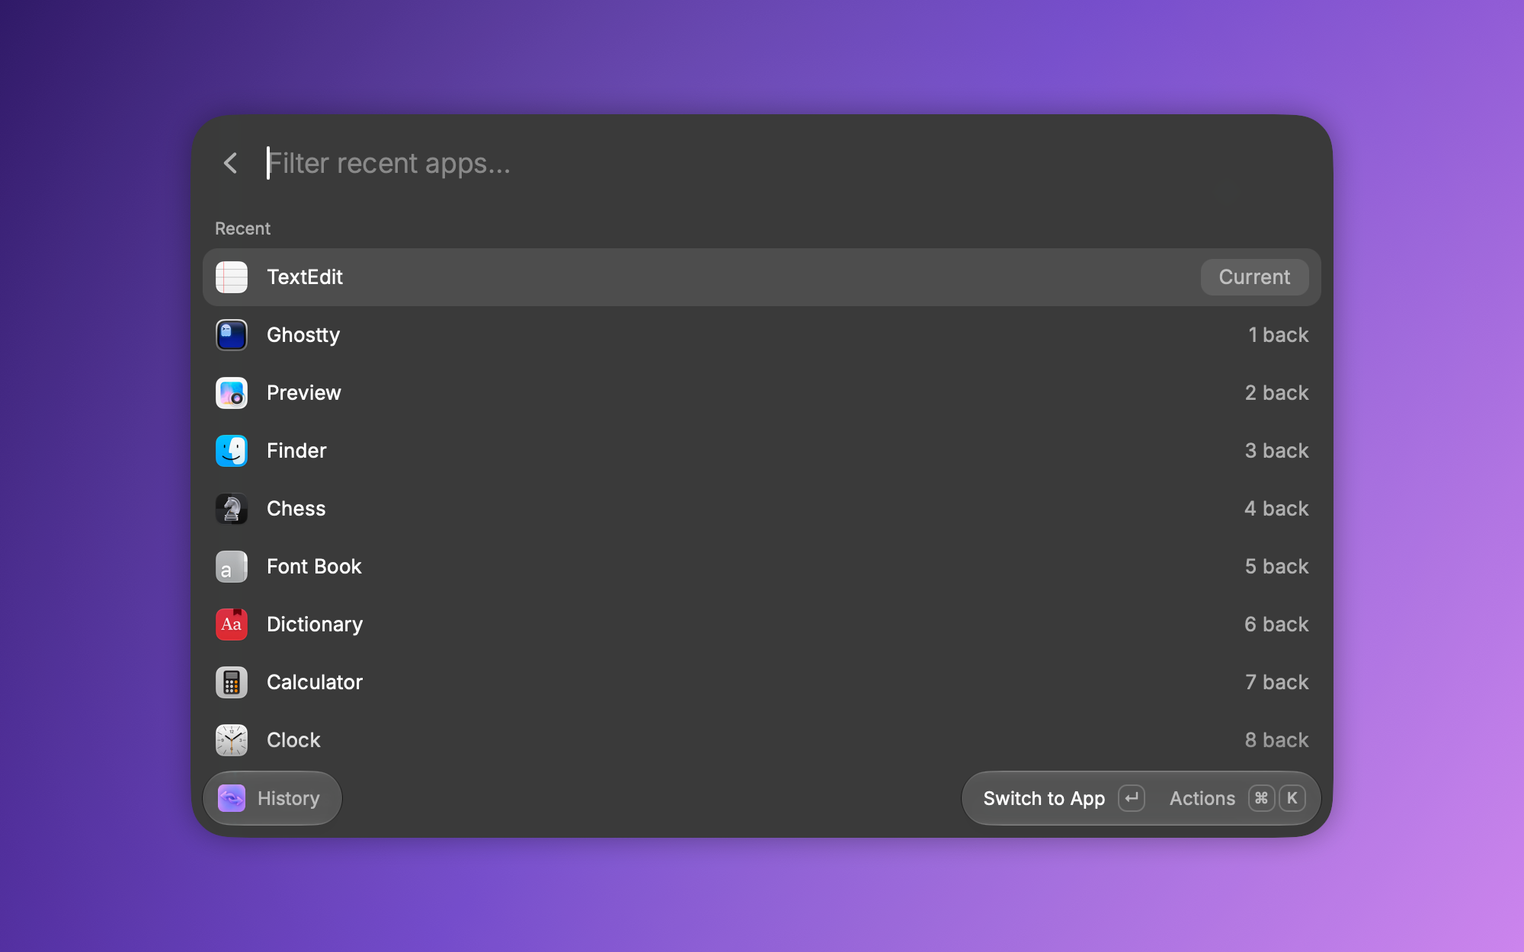
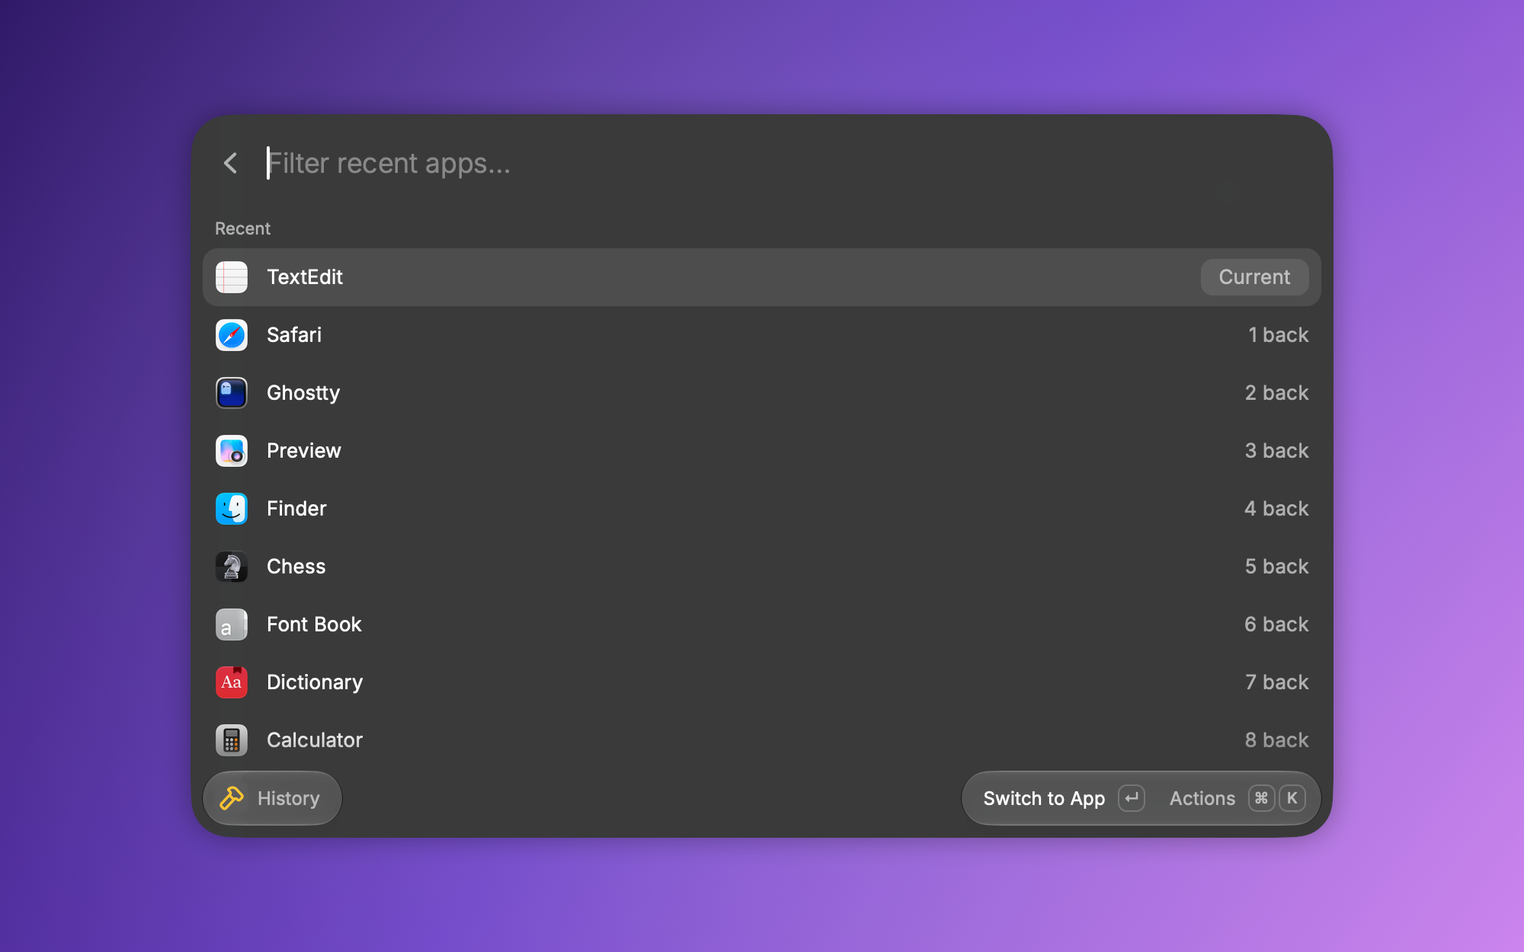
Store media for Tabs; tagline "Jump to any app, tab, or session"
- Screenshots: new jumper-5.png shows Tabs; 1-4 retaken (root search now lists all six commands).
- Demo GIF: adds a Tabs jump (pasted filter lands on a staged Safari tab) and the new tagline on the title card.
- store_media.py: staged Safari window with public pages, Tabs cache warm-up, pasted query (typed prefixes flash private tabs), landing check, wait for History to open, 12 fps.
- Branding: new tagline in package.json description and both READMEs; keywords swap "jump" for "harpoon" and "last used app" for "switch tabs".
- Skills and STATUS updated with the Tabs step and its pitfalls.

Closes #11 (media part).

Changed region(s): [[0.124, 0.3432, 0.248, 0.8736]]

diff --git a/scripts/media/store_media.py b/scripts/media/store_media.py
@@ -40,7 +40,17 @@ DEMO_APPS = [
     ("Finder", None, True),  # opens a window on /System/Applications (Apple apps only), see setup_apps
     ("Preview", ["open", "-a", "Preview", str(EXT / "assets/extension-icon.png")], True),
     ("Ghostty", None, True),  # the owner's own session: used only if already running, never quit
+    ("Safari", None, True),  # a new window with SAFARI_TABS; the owner's own windows are left alone
     ("TextEdit", None, True),  # opens a scratch note, see setup_apps
+]
+
+# Public pages for the staged Safari window: the Tabs command's shots and GIF show these, with the owner's own
+# apps' tabs pushed below the visible rows (Tabs lists apps most recent first). The first one is current.
+SAFARI_TABS = [
+    "https://www.raycast.com/store",
+    "https://www.apple.com/os/macos/",
+    "https://github.com/mattherwig/jumper",
+    "https://developers.raycast.com/",
 ]
 
 # Apps whose process name differs from the app name.
@@ -53,6 +63,7 @@ HOTKEYS = {
     "forward": ["⇧", "⌘", "]"],
     "toggle": ["⌘", "⌘"],  # double-tap ⌘
     "history": ["⇧", "⌘"],
+    "tabs": ["⌃", "⌘"],
 }
 
 NOTE = "Launch checklist\n\n- Screenshots\n- Demo GIF\n- Submit to the Raycast Store\n"
@@ -80,6 +91,15 @@ def close_raycast() -> None:
             return
         escape()
     raise RuntimeError("Raycast window did not close")
+
+
+def paste(text: str) -> None:
+    """Pastes `text` into the focused field in one go, then puts the owner's clipboard text back."""
+    saved = subprocess.run(["pbpaste"], capture_output=True).stdout
+    subprocess.run(["pbcopy"], input=text.encode(), check=True)
+    keys('keystroke "v" using command down')
+    time.sleep(0.3)
+    subprocess.run(["pbcopy"], input=saved, check=True)
 
 
 def deeplink(command: str) -> None:
@@ -122,6 +142,7 @@ class DemoApps:
         self.frame = frame
         self.launched: list[str] = []
         self.finder_window: str | None = None
+        self.safari_window: str | None = None
         self.note = TMP / "Jumper.txt"
         self.previous_app = frontmost()
         self.restore: list[tuple[str, str]] = []  # (process, "x, y, w, h") of windows we moved but don't own
@@ -140,6 +161,18 @@ class DemoApps:
                     self.launched.append(name)
                 if name == "TextEdit":
                     subprocess.run(["open", "-a", "TextEdit", str(self.note)], check=True)
+                elif name == "Safari":
+                    self.safari_window = osa(
+                        'tell application "Safari"\n'
+                        f'  make new document with properties {{URL:"{SAFARI_TABS[0]}"}}\n'
+                        "  set w to front window\n"
+                        + "".join(f'  tell w to make new tab at end of tabs with properties {{URL:"{u}"}}\n' for u in SAFARI_TABS[1:])
+                        + "  set current tab of w to tab 1 of w\n"
+                        "  activate\n"
+                        "  return id of w\n"
+                        "end tell"
+                    )
+                    time.sleep(3)  # let the pages load, so titles and favicons are real
                 elif name == "Finder":
                     self.finder_window = osa(
                         'tell application "Finder"\n'
@@ -181,6 +214,8 @@ class DemoApps:
                 f"  set size of window 1 to {{{w}, {h}}}\n"
                 "end tell"
             )
+        if self.safari_window:
+            subprocess.run(["osascript", "-e", f'tell application "Safari" to close (window id {self.safari_window})'])
         if self.finder_window:
             subprocess.run(["osascript", "-e", f'tell application "Finder" to close (window id {self.finder_window})'])
         subprocess.run(
@@ -231,7 +266,15 @@ def screenshots() -> None:
         time.sleep(1.5)
         close_raycast()
 
-    # 4. Root search for "jumper": every command, Back selected to show its hotkey. Raycast ignores a synthetic
+        # 5. Tabs, from the staged Safari window: its tabs on top, then the other demo apps' windows.
+        subprocess.run(["open", "-a", "Safari"], check=True)
+        time.sleep(1)
+        deeplink("tabs")
+        time.sleep(3.5)  # the list first shows the cached copy, then refreshes
+        capture(out / "jumper-5.png")
+        close_raycast()
+
+    # 4. Root search for "jumper": every command, the second row selected to show its hotkey (Raycast ranks by use). Raycast ignores a synthetic
     # ⌘Space, but Escape from a command's view pops to root search. Matching files from the
     # user's disk show below the commands; review them before committing.
     deeplink("history")
@@ -242,7 +285,7 @@ def screenshots() -> None:
         raise RuntimeError("root search did not open")
     keys('keystroke "jumper"')
     time.sleep(1.5)
-    keys("key code 125")  # select Back: Raycast shows the hotkey of the selected row only
+    keys("key code 125")  # Raycast shows the hotkey of the selected row only
     time.sleep(0.6)
     capture(out / "jumper-4.png")
     close_raycast()
@@ -255,14 +298,25 @@ def gif() -> None:
     # Recording area: Raycast's window plus a margin; every demo window is placed exactly on it,
     # so whatever is behind (the user's own windows) never shows.
     deeplink("history")
-    time.sleep(1.5)
+    deadline = time.time() + 6
+    while (window := raycast_window()) is None and time.time() < deadline:
+        time.sleep(0.3)
+    if window is None:
+        sys.exit("History did not open: is `ray develop` running?")
+    time.sleep(0.5)  # let it settle at its final size
     _, rx, ry, rw, rh = raycast_window()  # type: ignore[misc]
     close_raycast()
     frame = (rx - 120, max(ry - 50, 40), rw + 240, rh + 170)
     x, y, w, h = frame
     video = TMP / "demo.mov"
-    back, fwd, tog, hist = (HOTKEYS[c] for c in ("back", "forward", "toggle", "history"))
-    card = {"card": "Jumper", "sub": "Back and Forward for your Mac apps"}
+    back, fwd, tog, hist, tabs = (HOTKEYS[c] for c in ("back", "forward", "toggle", "history", "tabs"))
+    # Tabs step: types a filter that matches only the staged apple.com tab ("macOS 27 Golden Gate"). Raycast ranks
+    # matches across all apps, so the query must not match any of the owner's tabs or sessions (a jump there lands
+    # outside the recording area). Arrow keys aren't reliable either: Tabs opens on its cached list and the
+    # selection after the refresh varies. The query is pasted, not typed: every prefix ("g", "go") would briefly
+    # list matching private tabs. Checked after recording.
+    tab_target = SAFARI_TABS[1]
+    card = {"card": "Jumper", "sub": "Jump to any app, tab, or session"}
     # (overlay message, deeplink command or keystroke or None, seconds to hold)
     timeline = [
         (card, None, 2.8),
@@ -280,10 +334,13 @@ def gif() -> None:
         ({"keys": ["↓"], "title": "History", "detail": "pick any app"}, "key code 125", 0.5),
         ({"keys": ["↓"], "title": "History", "detail": "pick any app"}, "key code 125", 0.9),
         ({"keys": ["↩"], "title": "Switch to App", "detail": "jump straight there"}, "key code 36", 1.8),
+        ({"keys": tabs, "title": "Tabs", "detail": "every tab, window, and session"}, "tabs", 2.2),
+        ({"keys": ["golden gate"], "title": "Tabs", "detail": "search by title or URL"}, "paste:golden gate", 1.5),
+        ({"keys": ["↩"], "title": "Jump to Tab", "detail": "straight to that tab"}, "key code 36", 2.2),
         ({}, None, 0.4),
         ({"card": "Jumper", "sub": "Free on the Raycast Store"}, None, 2.8),
     ]
-    with DemoApps(frame):
+    with DemoApps(frame) as demo:
         keycast = subprocess.Popen(
             ["swift", str(HERE / "keycast.swift"), *map(str, frame), str(EXT / "assets/extension-icon.png")], stdin=subprocess.PIPE, text=True
         )
@@ -292,6 +349,10 @@ def gif() -> None:
             keycast.stdin.write(json.dumps(message) + "\n")  # type: ignore[union-attr]
             keycast.stdin.flush()  # type: ignore[union-attr]
 
+        # Warm Tabs' cache: it shows the last list first, which would otherwise be from the owner's own use.
+        deeplink("tabs")
+        time.sleep(3)
+        close_raycast()
         # Park the pointer outside the recording area (screencapture -v records it).
         subprocess.run(["swift", "-e", "import CoreGraphics; CGWarpMouseCursorPosition(CGPoint(x: 2, y: 2000))"])
         overlay(card)
@@ -304,7 +365,9 @@ def gif() -> None:
         checked: set[str] = set()
         for message, action, hold in timeline:
             overlay(message)
-            if action and action.startswith("key code"):
+            if action and action.startswith("paste:"):
+                paste(action.removeprefix("paste:"))
+            elif action and action.startswith(("key code", "keystroke")):
                 keys(action)
             elif action:
                 deeplink(action)
@@ -323,13 +386,16 @@ def gif() -> None:
         rec.wait()
         keycast.stdin.close()
         keycast.wait()
+        landed = osa(f'tell application "Safari" to get URL of current tab of window id {demo.safari_window}')
+        if frontmost() != "Safari" or landed.rstrip("/") != tab_target.rstrip("/"):
+            print(f"warning: Tabs jump landed on {frontmost()} {landed}, expected Safari {tab_target}", file=sys.stderr)
 
         out = EXT / "media"
         out.mkdir(exist_ok=True)
         subprocess.run(
             [
                 "ffmpeg", "-y", "-loglevel", "error", "-ss", "1", "-i", str(video),
-                "-vf", "fps=15,scale=960:-1:flags=lanczos,split[a][b];[a]palettegen=stats_mode=diff[p];"
+                "-vf", "fps=12,scale=960:-1:flags=lanczos,split[a][b];[a]palettegen=stats_mode=diff[p];"
                 "[b][p]paletteuse=dither=bayer:bayer_scale=4:diff_mode=rectangle",
                 str(out / "demo.gif"),
             ],

diff --git a/.claude/skills/store-screenshots/SKILL.md b/.claude/skills/store-screenshots/SKILL.md
@@ -1,25 +1,26 @@
 ---
 name: store-screenshots
-description: Regenerate Jumper's Raycast Store screenshots (extension/metadata/jumper-*.png, 2000x1250) by driving Raycast on this Mac. Use when the History view's UI changes, before a Store submission or update, or when asked to retake/refresh screenshots.
+description: Regenerate Jumper's Raycast Store screenshots (extension/metadata/jumper-*.png, 2000x1250) by driving Raycast on this Mac. Use when the History or Tabs view's UI changes, before a Store submission or update, or when asked to retake/refresh screenshots.
 ---
 
 # Store screenshots
 
-Produces `extension/metadata/jumper-1.png` … `jumper-4.png`, the images on the Store page (Raycast requires them because History is a `view` command; max 6, 2000×1250 PNG, first one is the hero).
+Produces `extension/metadata/jumper-1.png` … `jumper-5.png`, the images on the Store page (Raycast requires them because History and Tabs are `view` commands; max 6, 2000×1250 PNG, first one is the hero).
 
 | File | Shows |
 |---|---|
 | `jumper-1.png` | History list: Current tag, "n back" labels |
 | `jumper-2.png` | History with the action panel (⌘K): Remove / Exclude from History and their shortcuts |
 | `jumper-3.png` | Excluded section with Include in History (Chess is excluded for the shot, then included again) |
-| `jumper-4.png` | Root search for "jumper": all commands, Back selected (Raycast shows only the selected row's hotkey) |
+| `jumper-4.png` | Root search for "jumper": all commands, the second row selected (Raycast shows only the selected row's hotkey; its ranking follows usage) |
+| `jumper-5.png` | Tabs, with Safari current: the staged Safari window's tabs on top, then the other demo apps' windows |
 
 ## Before running
 
 1. **Warn the user**: the script takes over the screen for ~45s (opens apps, opens Raycast, types). Hands off keyboard and mouse. Get a go-ahead.
 2. Dev mode running: `pgrep -fl "ray develop"` or start `cd extension && npm run dev` in the background (only one instance, two cause flaky reloads; it must be running from `extension/`, i.e. the path shows `jumper/extension/node_modules`, not a stale one from the old repo root).
 3. Permissions for the app running the script (the Claude app): **Accessibility** (keystrokes) and **Screen Recording**. Check Accessibility without pressing keys: `osascript -e 'tell application "System Events" to get UI elements enabled'` → `true`. Only the user can grant these (System Settings → Privacy & Security); open the pane with `open "x-apple.systempreferences:com.apple.preference.security?Privacy_Accessibility"`.
-4. First deeplink to each command asks "Request to run … triggered outside of Raycast". The user must choose **Always Run Command** once per command (it is their Raycast setting; don't click it for them).
+4. First deeplink to each command (including `tabs`) asks "Request to run … triggered outside of Raycast". The user must choose **Always Run Command** once per command (it is their Raycast setting; don't click it for them).
 
 ## Run
 
@@ -30,14 +31,14 @@ python3 scripts/media/store_media.py screenshots
 ```
 
 What it does (`scripts/media/store_media.py`):
-- Brings up the `DEMO_APPS` (built-in apps with no personal content, plus the owner's Ghostty window if running) so they fill every visible History row and push the user's other apps out of view. Afterwards it quits only the apps it launched and re-activates the previous app.
+- Brings up the `DEMO_APPS` (built-in apps with no personal content, plus the owner's Ghostty window if running) so they fill every visible History row and push the user's other apps out of view. Safari gets a new window with `SAFARI_TABS` (public pages); the owner's own Safari windows stay and show in Tabs' Safari section (check they're harmless). Tabs lists apps most recent first, so the owner's other apps' tabs (Chrome, Claude, Muse, Messages) sit below the visible rows. Afterwards it quits only the apps it launched and re-activates the previous app.
 - Opens History by deeplink, drives it with System Events keystrokes, captures only Raycast's window (`screencapture -l`, via `raycast-window.swift`), and composites it on a purple gradient at 2000×1250 (`compose.swift`).
 - Only sends Escape while Raycast's window is on screen, so it never lands in another app.
 
 ## After running: review every image (required)
 
 Read each PNG and check:
-- No personal data: only the demo apps in the list (if the screen is taller and a user app appears at the bottom, add another neutral app to the start of `DEMO_APPS`), no names. `jumper-4.png` lists matching files from `~/Projects/jumper` below the commands; the owner accepted that.
+- No personal data: only the demo apps in the list (in `jumper-5.png`: staged Safari tabs and demo windows only; the list first shows its cached copy, so the script waits 3.5s) (if the screen is taller and a user app appears at the bottom, add another neutral app to the start of `DEMO_APPS`), no names. `jumper-4.png` lists matching files from `~/Projects/jumper` below the commands; the owner accepted that.
 - Chess shows in Recent in `jumper-1.png` (proves the previous run's exclusion was undone). If Chess stays excluded after a failed run: open History, find it in Excluded, Include in History.
 - Sizes: `sips -g pixelWidth -g pixelHeight extension/metadata/*.png` → 2000×1250.
 - **Raycast CI's image check passes** (it failed the first submission). Their CI requires ~12.5% padding on every side (8–17%), top/bottom and left/right within 4%, and the same background on every image. Run their checker locally:

diff --git a/.claude/skills/demo-gif/SKILL.md b/.claude/skills/demo-gif/SKILL.md
@@ -1,15 +1,15 @@
 ---
 name: demo-gif
-description: Record Jumper's demo GIF (extension/media/demo.gif, shown at the top of the README and so on the Store page) by driving Back, Forward, Toggle, and History on this Mac. Use when commands or their behavior change, or when asked to redo the demo/GIF/screencast.
+description: Record Jumper's demo GIF (extension/media/demo.gif, shown at the top of the README and so on the Store page) by driving Back, Forward, Toggle, History, and Tabs on this Mac. Use when commands or their behavior change, or when asked to redo the demo/GIF/screencast.
 ---
 
 # Demo GIF
 
-Produces `extension/media/demo.gif` (~27s, ~3.4 MB): a title card, Back ×3, Forward ×3, Toggle ×2, then History (↓↓↓ ↩), and an end card. Each step shows keycaps with the owner's hotkeys and a caption. `extension/README.md` embeds it as `![Jumper demo](media/demo.gif)`; Raycast requires README media in a `media/` folder at the extension's top level. The root GitHub README embeds it as `extension/media/demo.gif`. The same clip works as the PR screencast and for launch posts.
+Produces `extension/media/demo.gif` (~32s, ~4.5 MB at 12 fps): a title card (the tagline), Back ×3, Forward ×3, Toggle ×2, History (↓↓↓ ↩), Tabs (paste "golden gate" ↩, lands on the staged apple.com tab), and an end card. Each step shows keycaps with the owner's hotkeys and a caption. `extension/README.md` embeds it as `![Jumper demo](media/demo.gif)`; Raycast requires README media in a `media/` folder at the extension's top level. The root GitHub README embeds it as `extension/media/demo.gif`. The same clip works as the PR screencast and for launch posts.
 
 ## Before running
 
-Same prerequisites as the `store-screenshots` skill: warn the user and get a go-ahead (the screen is taken over for ~45s), one `ray develop` running, Accessibility + Screen Recording granted, and **Always Run Command** chosen once for each of `back`, `forward`, `toggle`, `history` (otherwise every deeplink stops at Raycast's "Request to run" prompt and nothing switches). Also needs `ffmpeg` (`brew install ffmpeg`).
+Same prerequisites as the `store-screenshots` skill: warn the user and get a go-ahead (the screen is taken over for ~45s), one `ray develop` running, Accessibility + Screen Recording granted, and **Always Run Command** chosen once for each of `back`, `forward`, `toggle`, `history`, `tabs` (otherwise every deeplink stops at Raycast's "Request to run" prompt and nothing switches). Also needs `ffmpeg` (`brew install ffmpeg`).
 
 ## Run
 
@@ -25,7 +25,12 @@ What it does (`scripts/media/store_media.py`):
 - **Ghostty is the owner's live session: never quit or close it.** The script only uses it if already running, saves its window frame, and restores it afterwards (position before size, or macOS clips the width).
 - Parks the pointer outside the area, then starts `keycast.swift`, an accessory-app overlay (never takes focus, so it doesn't disturb the app history being demoed) that draws the keycaps HUD and the full-frame title cards. Keys come from `HOTKEYS` in `store_media.py` (the owner's bindings, also the README's suggested hotkeys: change both together and rerun); commands are actually triggered by deeplink, as Raycast ignores synthetic hotkeys.
 - Stops if Raycast's window is still up a second after the first run of a no-view command: that is the "Request to run" prompt.
-- Records the area with `screencapture -v -R`, converts with ffmpeg (15 fps, 960px wide, palette), cleans up the apps it launched.
+- Tabs step: opens Tabs once before recording to warm its cache (it shows the cached list first; otherwise that would be from the owner's own use). Then it **pastes** a query that matches only one staged tab. Lessons from getting this wrong:
+  - Arrow keys are unreliable in Tabs: the selection after the cached list refreshes varies from run to run, and one run jumped to the owner's own Safari Start Page window, outside the recording area.
+  - Raycast ranks filtered results across all apps, not by section order: "mattherwig" put the owner's Chrome tabs first.
+  - Typing letter by letter flashes every prefix's matches ("gol" showed a Gmail tab with the owner's address). Paste instead (`paste()` restores the clipboard's text).
+  - After recording, the script warns if the jump didn't land on `tab_target`: treat that GIF as bad.
+- Records the area with `screencapture -v -R`, converts with ffmpeg (12 fps, 960px wide, palette), cleans up the apps it launched.
 
 ## After running: review before committing (required)
 
@@ -38,6 +43,7 @@ ffmpeg -loglevel error -y -i extension/media/demo.gif -vf "select='not(mod(n\,30
 Check:
 - Every step actually switched app (the frontmost window changes); no Raycast "Request to run" dialog anywhere.
 - Nothing personal: only demo windows (including what's on screen in Ghostty), Raycast's History view, and labels. If a user window, notification, or menu shows up, delete the GIF and rerun (turn on Do Not Disturb).
-- Size stays reasonable (under ~4 MB); lower `fps` or `scale` in `gif()` if not.
+- The Tabs step shows only staged rows (staged Safari tabs, demo windows) and ends on the staged apple.com tab.
+- Size stays reasonable (under ~5 MB); lower `fps` or `scale` in `gif()` if not.
 
 Then make sure `extension/README.md` starts with the demo image, `cd extension && npm run check`, commit `extension/media/demo.gif`.

diff --git a/docs/STATUS.md b/docs/STATUS.md
@@ -11,7 +11,7 @@ Done:
 
 - Owner smoke-tested the app-level commands on this branch (History uses the new shared SwitchAction): good.
 
-Not done: Messages (probed, out: rows are unlabeled groups whose only text is "name, preview, time", and group names contain commas); Cursor (descoped, needs a spike); tab Back/Forward (needs a switch recorder); demo GIF / Store screenshots (#11).
+Not done: Messages (probed, out: rows are unlabeled groups whose only text is "name, preview, time", and group names contain commas); Cursor (descoped, needs a spike); tab Back/Forward (needs a switch recorder).
 
 ## 2026-09-26 — GitHub Pages landing page (branch `site/github-pages`)
 
@@ -35,7 +35,7 @@ Done:
 
 - Commands renamed to Back / Forward / Toggle / History, IDs `back` / `forward` / `toggle` / `history` (ADR-011). Owner rebound hotkeys (⇧⌘[ / ⇧⌘] / ⌘⌘ / History).
 
-- Store media: `extension/metadata/jumper-1..4.png` + `extension/media/demo.gif` (README), generated by `scripts/media/store_media.py`; rerun via the `store-screenshots` / `demo-gif` skills.
+- Store media (#11): `extension/metadata/jumper-1..5.png` (5 = Tabs) + `extension/media/demo.gif` (README; includes a Tabs jump), generated by `scripts/media/store_media.py`; rerun via the `store-screenshots` / `demo-gif` skills.
 
 - Repo split (ADR-012): the extension moved to `extension/` so `npm run publish` (run from there) ships only the extension, not docs/, scripts/, CLAUDE.md. The open publish PR still contains the old dev files; republish from `extension/` to update it.
 

diff --git a/extension/README.md b/extension/README.md
@@ -1,10 +1,10 @@
 # Jumper
 
-![Jumper demo: Back, Forward, Toggle, and History](media/demo.gif)
+![Jumper demo: Back, Forward, Toggle, History, and Tabs](media/demo.gif)
 
-A browser-style Back button for your Mac's apps.
+Jump to any app, tab, or session on your Mac.
 
-Cmd+Tab only knows "most recent" and reshuffles every time you switch, so getting back to the app you were in three switches ago is guesswork. Jumper lets you step back through your recently used apps, and forward again, exactly like history in Safari or VS Code.
+Cmd+Tab only knows "most recent" and reshuffles every time you switch, so getting back to the app you were in three switches ago is guesswork. Jumper lets you step back through your recently used apps, and forward again, exactly like history in Safari or VS Code. And when what you want is a browser tab, a terminal tab, or a Claude session, search them all in one list and jump straight there.
 
 ## Commands
 

diff --git a/README.md b/README.md
@@ -1,8 +1,8 @@
 # Jumper
 
-![Jumper demo: Back, Forward, Toggle, and History](extension/media/demo.gif)
+![Jumper demo: Back, Forward, Toggle, History, and Tabs](extension/media/demo.gif)
 
-A browser-style Back button for your Mac's apps: a [Raycast](https://www.raycast.com) extension that steps back and forward through your recently used apps.
+Jump to any app, tab, or session on your Mac: a [Raycast](https://www.raycast.com) extension that steps back and forward through your recently used apps, like browser history, and searches the tabs, windows, and sessions of every running app.
 
 - **Using it:** see [`extension/README.md`](extension/README.md) (commands, hotkey setup, how it works). That README is the one shown on the Raycast Store.
 - **The extension:** everything that ships to the Store lives in [`extension/`](extension/). Run npm commands there (`cd extension && npm ci && npm run dev`).
